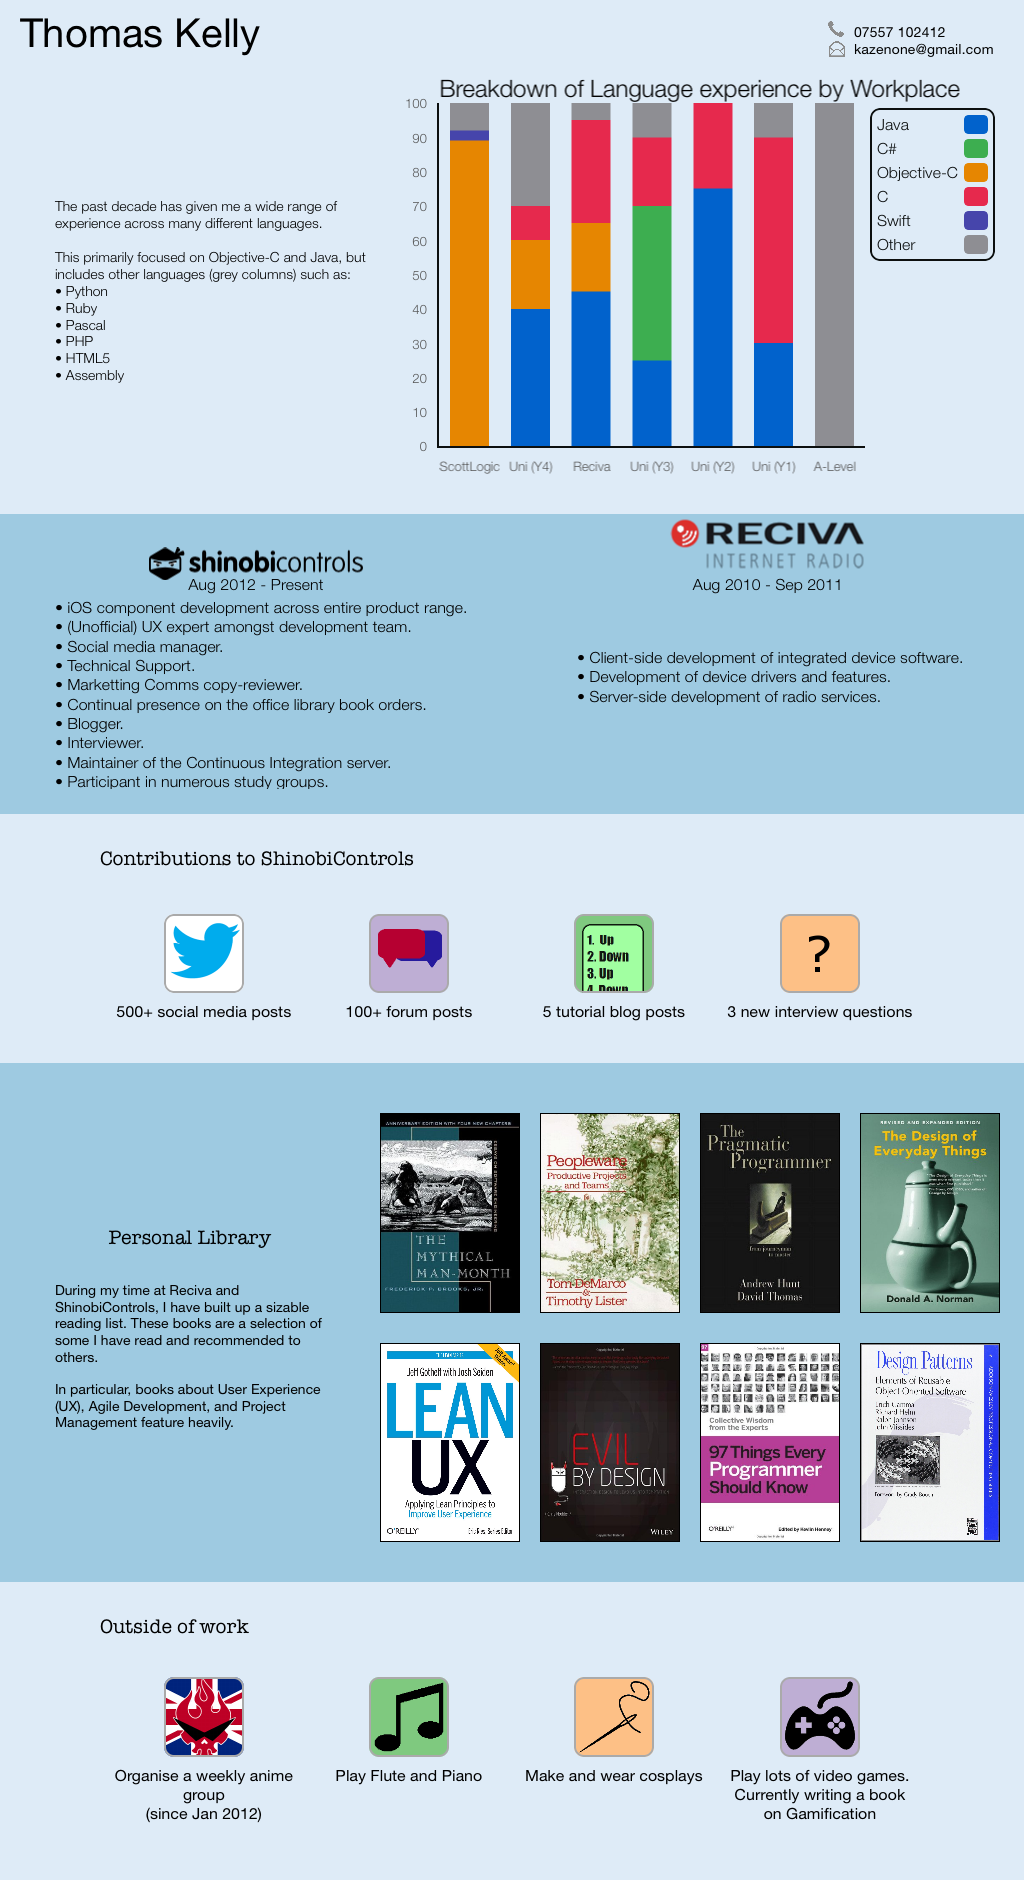
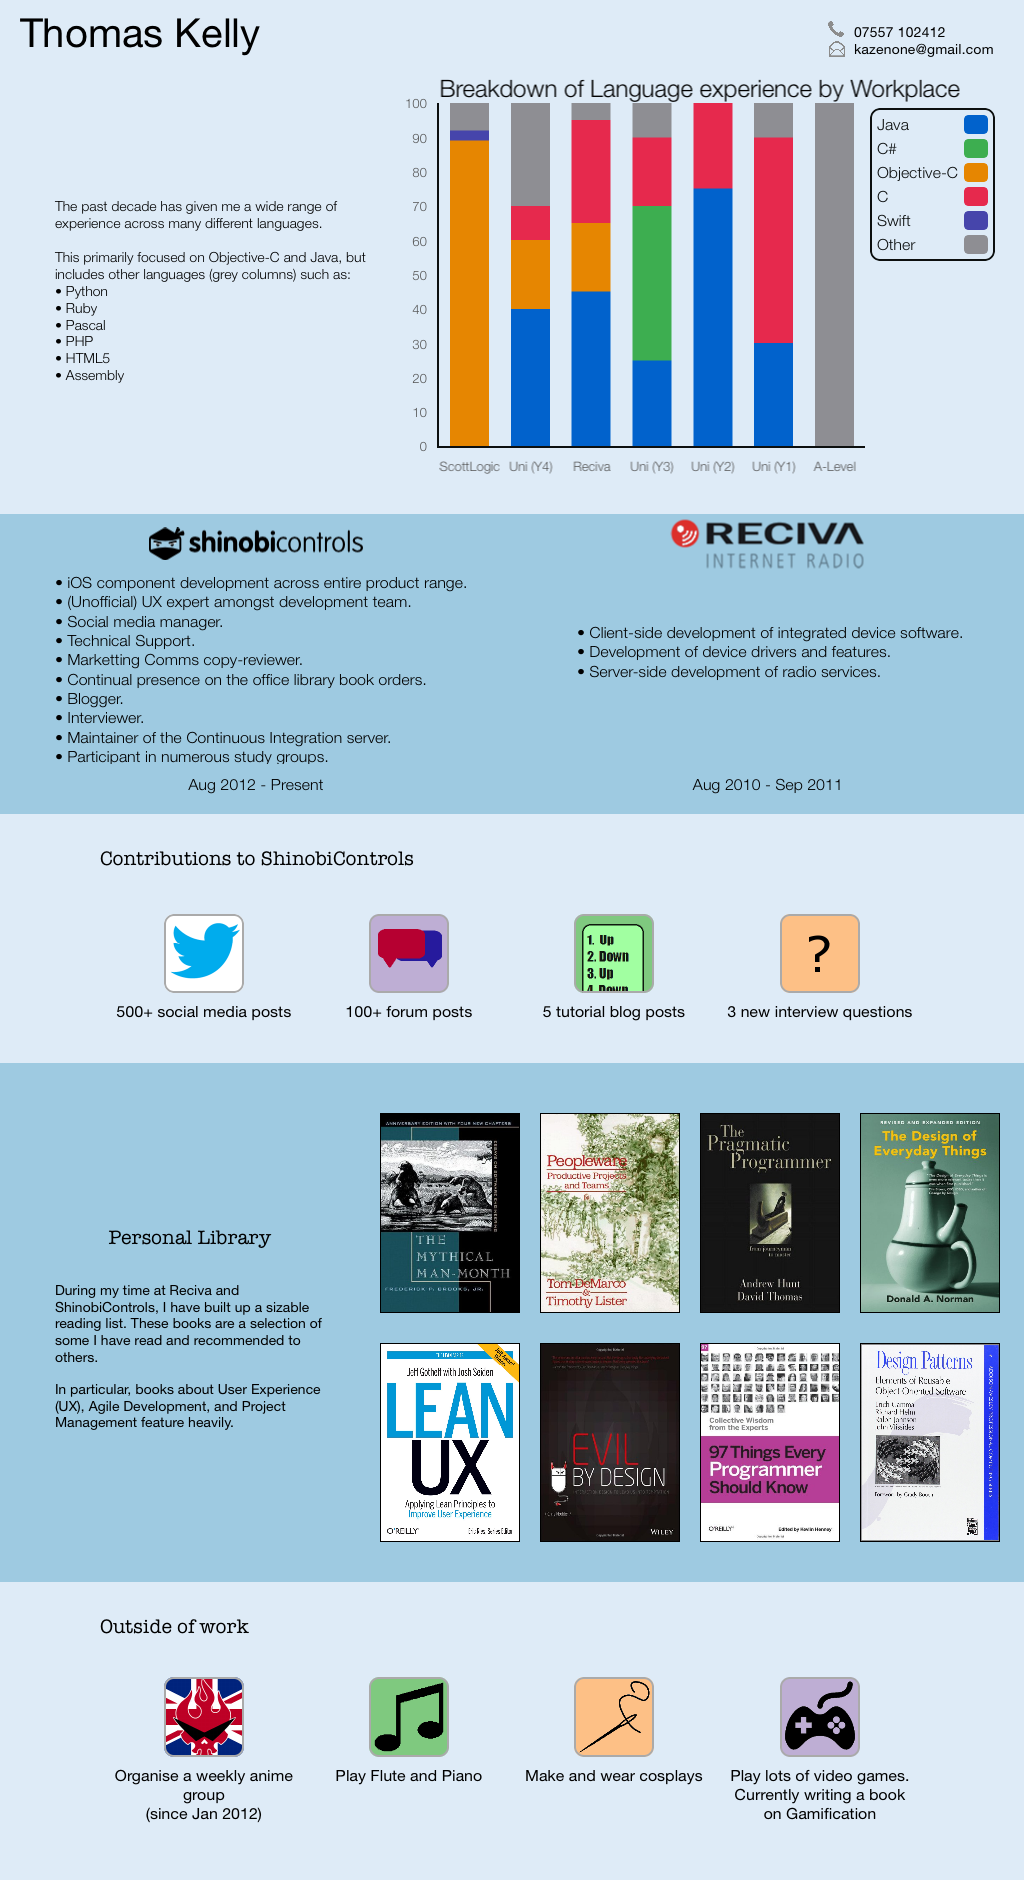
Moved date in split section to bottom
Moves the date from being underneath the logos, to being at the bottom
of the section.

Updates the graphics for each

Changed region(s): [[0.0625, 0.2777, 0.4375, 0.4319], [0.5625, 0.3085, 0.875, 0.3702]]

diff --git a/Infographic/Infographic/Sections/SplitSection.m b/Infographic/Infographic/Sections/SplitSection.m
@@ -16,11 +16,11 @@
     if (self) {
         //Add left title
         UIImageView *leftTitle = [[UIImageView alloc] initWithImage:[UIImage imageNamed:@"Images/ShinobiControls.png"]];
-        leftTitle.center = CGPointMake(256, 50);
+        leftTitle.center = CGPointMake(256, 30);
         [self addSubview:leftTitle];
 		
 		//Add left year
-		UILabel *leftYear = [[UILabel alloc] initWithFrame:CGRectMake(0, 50, 512, 40)];
+		UILabel *leftYear = [[UILabel alloc] initWithFrame:CGRectMake(0, 250, 512, 40)];
 		leftYear.backgroundColor = [UIColor clearColor];
 		leftYear.text = @"Aug 2012 - Present";
 		leftYear.font = [UIFont fontWithName:@"HelveticaNeue-Light" size:16];
@@ -28,7 +28,7 @@
 		[self addSubview:leftYear];
         
         //Add left text
-        UITextView *leftText = [[UITextView alloc] initWithFrame:CGRectMake(50, 75, 462, 200)];
+        UITextView *leftText = [[UITextView alloc] initWithFrame:CGRectMake(50, 50, 462, 200)];
         leftText.userInteractionEnabled = NO;
         leftText.backgroundColor = [UIColor clearColor];
         leftText.font = [UIFont fontWithName:@"HelveticaNeue-Light" size:16];
@@ -50,7 +50,7 @@
         [self addSubview:rightTitle];
 		
 		//Add right year
-		UILabel *rightYear = [[UILabel alloc] initWithFrame:CGRectMake(512, 50, 512, 40)];
+		UILabel *rightYear = [[UILabel alloc] initWithFrame:CGRectMake(512, 250, 512, 40)];
 		rightYear.backgroundColor = [UIColor clearColor];
 		rightYear.text = @"Aug 2010 - Sep 2011";
 		rightYear.font = [UIFont fontWithName:@"HelveticaNeue-Light" size:16];
@@ -58,7 +58,7 @@
 		[self addSubview:rightYear];
         
         //Add right text
-        UITextView *rightText = [[UITextView alloc] initWithFrame:CGRectMake(572, 125, 412, 75)];
+        UITextView *rightText = [[UITextView alloc] initWithFrame:CGRectMake(572, 100, 412, 75)];
         rightText.userInteractionEnabled = NO;
         rightText.backgroundColor = [UIColor clearColor];
         rightText.font = [UIFont fontWithName:@"HelveticaNeue-Light" size:16];
